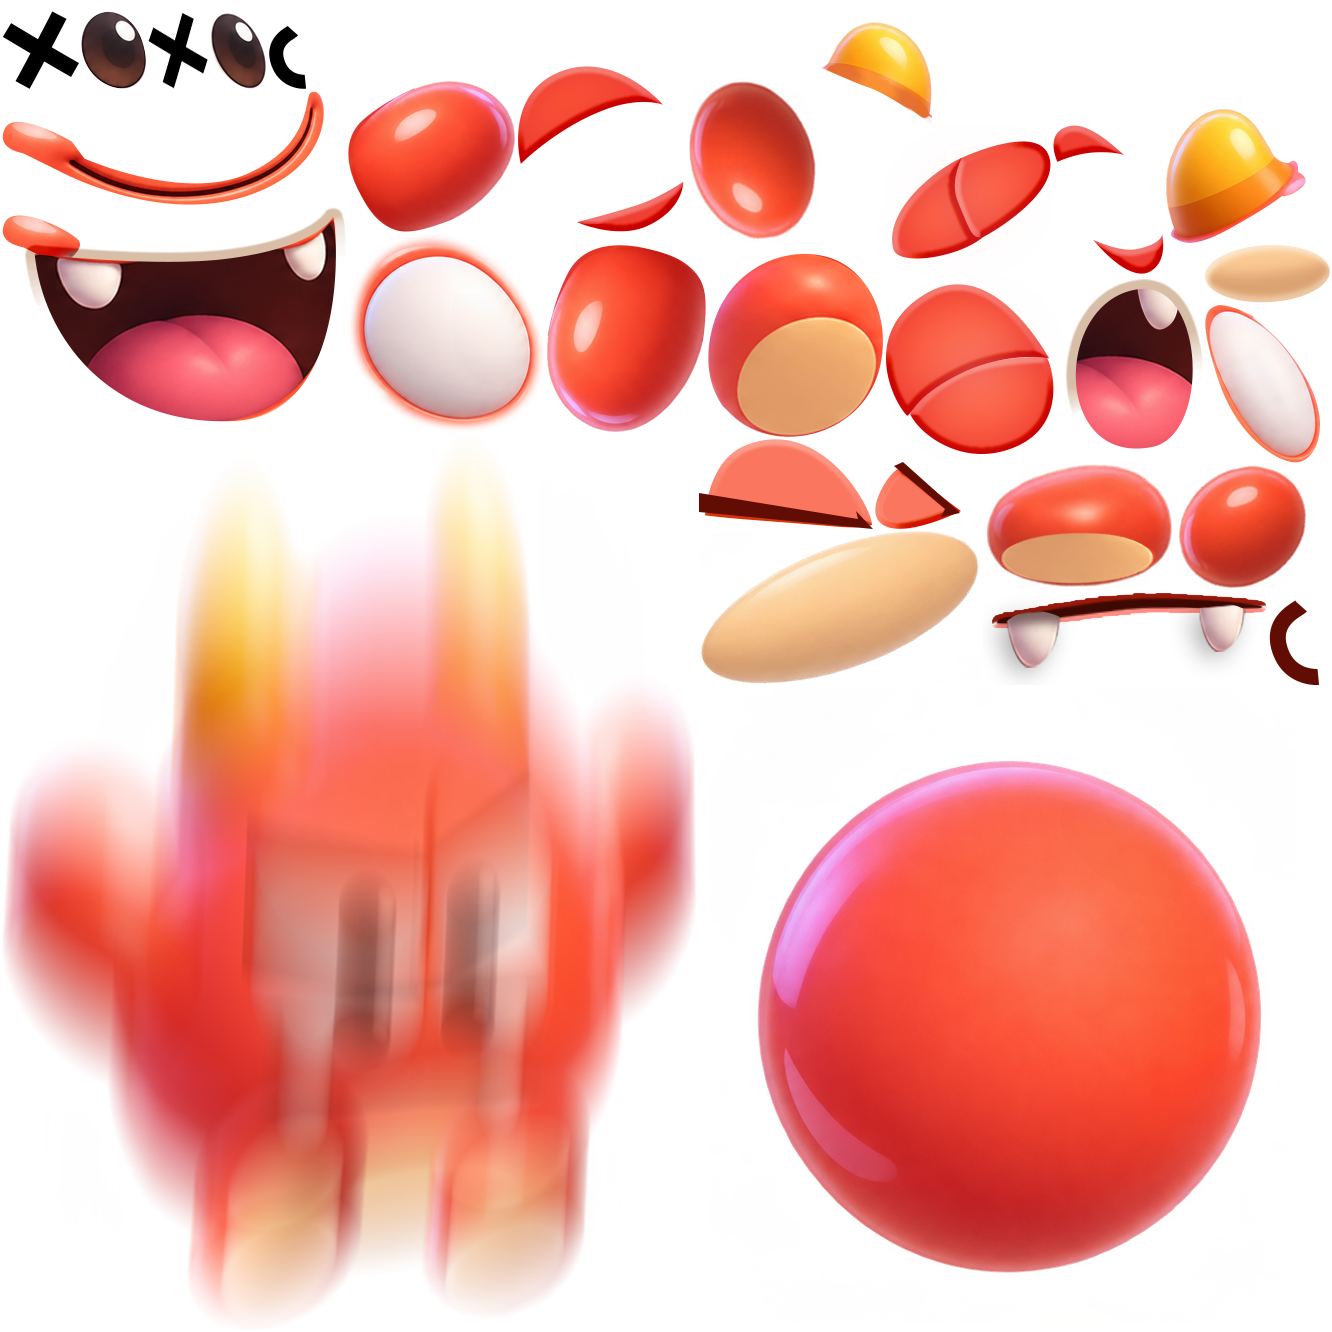
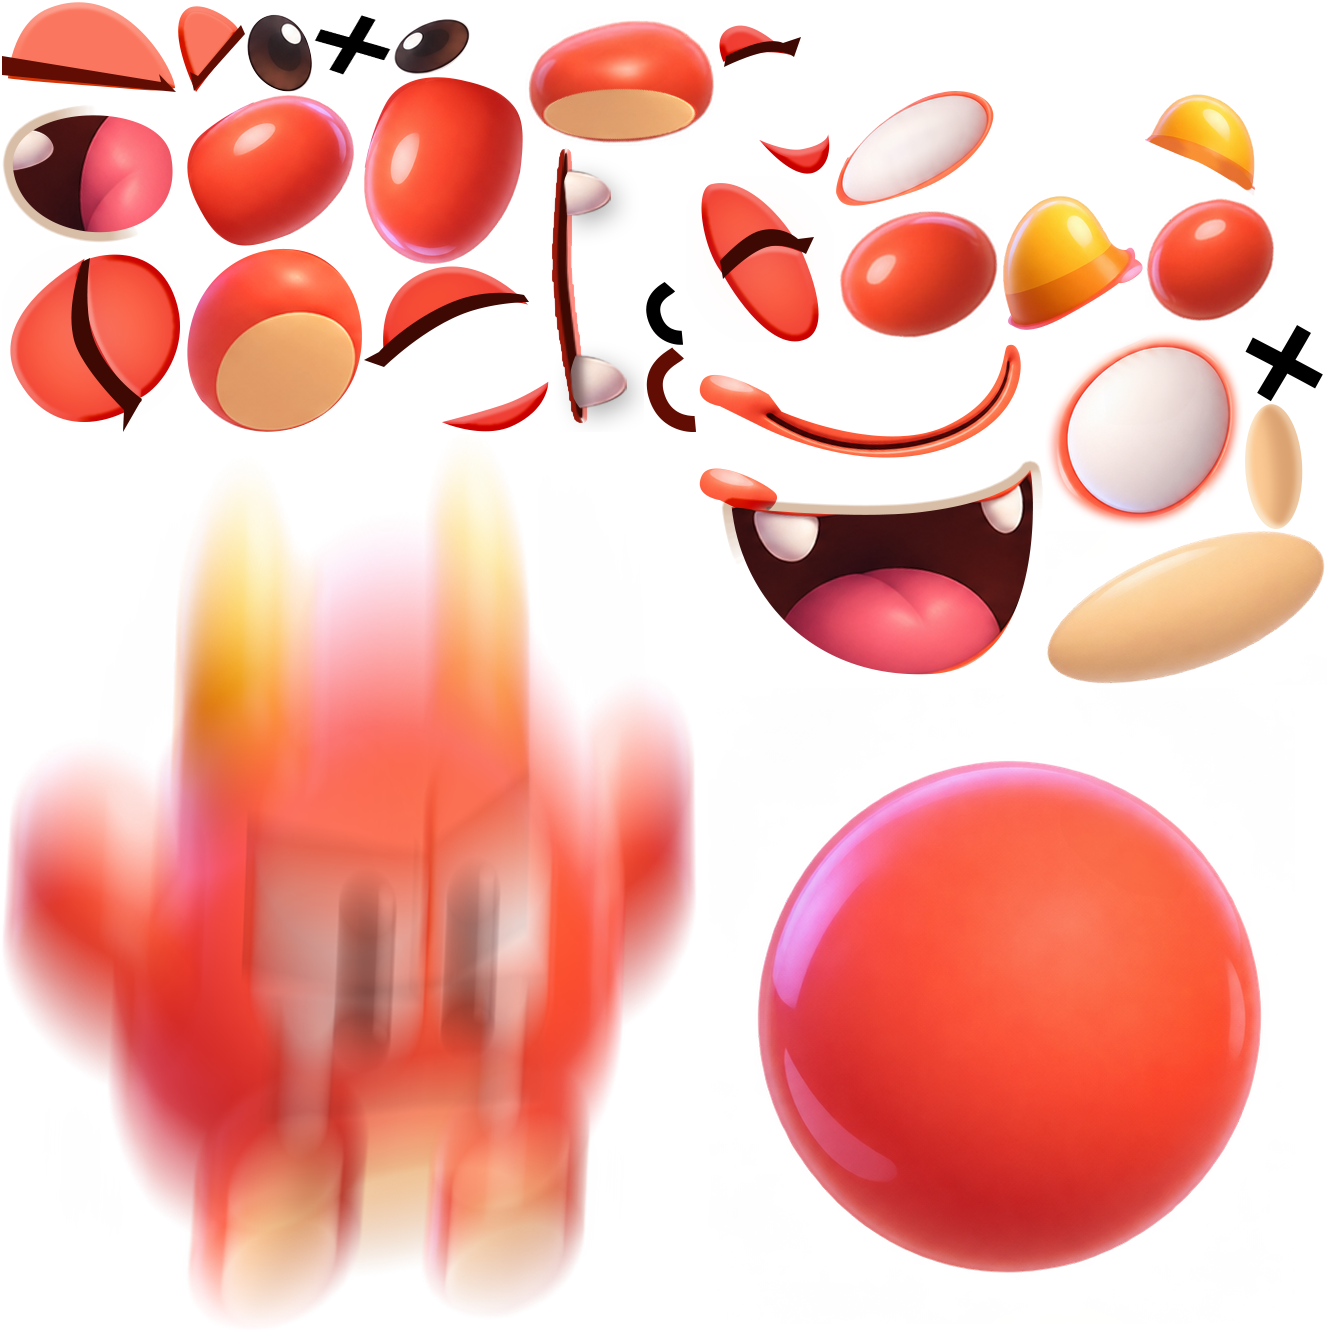
Spinning crown coin, summersault on doubles and springs, star sparkles in the win popup
Claude-Session: https://claude.ai/code/session_01NtdD59FKe2D5p4YXTBGgrJ

Changed region(s): [[0.0, 0.0, 1.0, 0.5233]]

diff --git a/index.html b/index.html
@@ -71,6 +71,9 @@ button.on{background:var(--accent)}
 #win.in .w-stars.lit::before{opacity:1}
 .w-star{position:relative;width:82px;height:auto;opacity:0;transform:scale(.2);filter:drop-shadow(0 4px 0 rgba(91,58,96,.28))}
 .w-star:nth-child(2){width:100px;margin:0 -6px 12px;z-index:1}
+.w-twinkle{position:absolute;z-index:2;height:auto;pointer-events:none;opacity:0;animation:wtw .7s ease-out forwards}
+.w-twinkle.loop{animation:wtw 1.6s ease-in-out infinite}
+@keyframes wtw{0%{opacity:0;transform:scale(.1) rotate(0)}35%{opacity:1;transform:scale(1.15) rotate(45deg)}100%{opacity:0;transform:scale(.3) rotate(90deg)}}
 .w-star.pop{animation:wstar .5s cubic-bezier(.2,1.9,.4,1) forwards}
 @keyframes wstar{0%{opacity:0;transform:scale(.2) rotate(-40deg)}100%{opacity:1;transform:scale(1) rotate(0)}}
 .w-spark{position:absolute;top:22px;width:44px;height:50px;opacity:0;transition:opacity .3s 1.1s}
@@ -351,6 +354,7 @@ let sel=null, snapOn=true;
 let p, rt, ckpt, startY, stats, simT=0, shakeAmt=0, lastLandY=0;
 let parts=[], pops=[], trail=[], springT=new Map();
 let win=null, flash=0, deadT=0, tries=1;
+let springHitT=-1; // simT of Boing's last spring bounce in real play (Spine summersault)
 let SIM=false; // true while the level bot simulates: no sound, buzz or saved times
 const BOT={watch:null,busy:false};
 let INTRO=null; // level-start camera move that shows the flag first (Feel: intro)
@@ -468,7 +472,17 @@ function starsFor(slams,par){return slams<=par?3:slams<=par+starStep(par)?2:1}
 // par is worked out once per level layout and Feel (the bot searches for the fewest slams), then remembered on this device.
 function levelPar(lv){const k='sbl_par_'+botHashKey(lv);let v=store.get(k);if(v==null){try{const r=botRunSync(botSearch(lv,null,15000,60));if(r.ok){v=Math.min(...r.plans.map(pl=>pl.filter(st=>st.k>=0).length));store.set(k,v)}}catch(e){}}return v==null?null:v}
 
-function showBanner(){
+// Allan's sparkle (art/ui/sparkle.png): a burst of twinkles around each star as it pops in the level clear popup
+function starSparkles(star){const box=star.parentNode;if(!box||matchMedia('(prefers-reduced-motion:reduce)').matches)return;
+  const cx=star.offsetLeft+star.offsetWidth/2,cy=star.offsetTop+star.offsetHeight/2,r=star.offsetWidth*0.55;
+  for(let k=0;k<7;k++){const im=document.createElement('img');im.src='art/ui/sparkle.png';im.className='w-twinkle';im.alt='';
+    const a=k/7*Math.PI*2+Math.random()*0.6,d=r*(0.75+Math.random()*0.6),sz=22+Math.random()*30;
+    im.style.cssText=`left:${cx+Math.cos(a)*d-sz/2}px;top:${cy+Math.sin(a)*d-sz/2}px;width:${sz}px;animation-delay:${Math.random()*0.25}s;animation-duration:${0.55+Math.random()*0.4}s`;
+    box.appendChild(im);setTimeout(()=>im.remove(),1400)}
+  // a few slow twinkles that keep going while the popup is up
+  for(let k=0;k<2;k++){const im=document.createElement('img');im.src='art/ui/sparkle.png';im.className='w-twinkle loop';im.alt='';const sz=18+Math.random()*14;
+    im.style.cssText=`left:${star.offsetLeft+Math.random()*star.offsetWidth-sz/2}px;top:${star.offsetTop+Math.random()*star.offsetHeight*0.8-sz/2}px;width:${sz}px;animation-delay:${0.6+Math.random()*1.5}s`;box.appendChild(im)}}
+function showBanner(){document.querySelectorAll('#wStars .w-twinkle').forEach(e=>e.remove());
   $('wTap').textContent=world==='level'?`Tap for level ${(pack.cur+1)%NLEV+1}`:'Tap to go again';
   const el=$('win');el.hidden=false;el.classList.remove('in');void el.offsetWidth;el.classList.add('in');$('wTap').classList.remove('on');
   const b=$('wBest'),inLevel=world==='level';
@@ -483,7 +497,7 @@ function showBanner(){
   const par=inLevel?levelPar(level):null,st=$('wStars'),stars=par==null?0:starsFor(stats.slams,par);
   st.hidden=par==null;
   st.classList.toggle('lit',stars>0);
-  [...st.querySelectorAll('.w-star')].forEach((e,i)=>{e.classList.remove('pop');e.src='art/ui/'+(i<stars?'star':'star-empty')+'.png';setTimeout(()=>{e.classList.add('pop');if(i<stars){tone(988*Math.pow(1.26,i),0,0.12,'square',0.07);tone(1976*Math.pow(1.26,i),0.05,0.18,'triangle',0.05)}},420+i*260)});
+  [...st.querySelectorAll('.w-star')].forEach((e,i)=>{e.classList.remove('pop');e.src='art/ui/'+(i<stars?'star':'star-empty')+'.png';setTimeout(()=>{e.classList.add('pop');if(i<stars){starSparkles(e);tone(988*Math.pow(1.26,i),0,0.12,'square',0.07);tone(1976*Math.pow(1.26,i),0.05,0.18,'triangle',0.05)}},420+i*260)});
   $('wGoal').textContent=par==null?'':stars>=3?`Perfect! ${par===0?'No slams needed':par+' slam'+(par===1?'':'s')+' is the best there is'}`:`3 stars: ${par===0?'no slams':par+' slam'+(par===1?'':'s')+' or fewer'} · 2 stars: ${par+starStep(par)} or fewer`;
   if(inLevel&&!SIM){const k=levelKey()+'_stars',old=store.get(k)||0;if(stars>old)store.set(k,stars)}
   if(win.best||(inLevel&&win.prev==null))setTimeout(()=>{tone(1319,0,0.12,'square',0.07);tone(1760,0.1,0.3,'square',0.07)},650);
@@ -506,7 +520,7 @@ function turnsAt(c){return feel.turn==='every'||(feel.turn==='chain'&&c>=2)||(fe
 function doSlamBounce(o,combo,late){
   p.combo=combo; stats.slams++;
   let v=slamBounceV(combo);
-  if(o.type==='spring'){v*=feel.springMult;springT.set(o.id,simT)}
+  if(o.type==='spring'){v*=feel.springMult;springT.set(o.id,simT);if(!SIM)springHitT=simT}
   if((o.type==='brk'||o.type==='brk2')&&hitBrk(o)&&feel.brkThrough){
     p.combo=combo;p.slam=false;p.wind=0;p.vy=feel.slamSpeed*0.6;p.land=null;p.y=o.y+PH-R+2;
     shakeAmt=Math.max(shakeAmt,12);burst(p.x,o.y+PH,14,C.brkD,380,6);
@@ -542,7 +556,7 @@ function land(o){
   if(p.slam){p.slam=false;doSlamBounce(o,nextCombo(p.combo),false);p.land=null}
   else{
     const prev=p.combo; p.combo=0;
-    let v=feel.bounce; if(o.type==='spring'){v*=feel.springMult;springT.set(o.id,simT)}
+    let v=feel.bounce; if(o.type==='spring'){v*=feel.springMult;springT.set(o.id,simT);if(!SIM)springHitT=simT}
     p.vy=-v; p.squash=0.7; burst(p.x,o.y,4,C.ink3,160,4);
     if(feel.bounceSfx){if(o.type==='spring'){sweep(220,880,0,0.28,'triangle',0.1)}else{const f=330*(o.type==='brk'?0.85:o.type==='brk2'?0.75:1);sweep(f,f*0.62,0,0.09,'sine',0.13);sweep(f*2,f*1.3,0,0.04,'triangle',0.025)}}
     p.land={t:simT,o,prev,used:false};
@@ -726,9 +740,10 @@ async function spineBoot(){
   }catch(e){SP.failed=true}
 }
 function spineAnim(o,dir){if(o.dead){SP.lastDir=dir;return'dead'}if(o.happy){SP.lastDir=dir;return'win'}if(o.slam)return'slam';
-  // turning around (the DOUBLE slam) plays 'summersault' once, then goes back to 'air'
+  // turning around (the DOUBLE slam) or bouncing off a spring plays 'summersault' once, then goes back to 'air'
   const turned=SP.lastDir!=null&&dir!==SP.lastDir;SP.lastDir=dir;
-  if(turned&&SP.has('summersault')){SP.restart=true;SP.lastSq=o.squash||0;return'summersault'}
+  const sprung=springHitT>=0&&springHitT!==SP.seenSpring&&simT-springHitT<0.1;SP.seenSpring=springHitT;
+  if((turned||sprung)&&SP.has('summersault')){SP.restart=true;SP.lastSq=o.squash||0;return'summersault'}
   if(SP.cur==='summersault'){const e=SP.state.getCurrent(0);if(e&&!e.isComplete()){SP.lastSq=o.squash||0;return'summersault'}}
   // a landing (squash jumps up) starts 'land', which plays to its end before going back to 'air'
   const sq=o.squash||0,hit=sq>(SP.lastSq||0)+0.2;SP.lastSq=sq;
@@ -773,7 +788,7 @@ function drawBall(x,y,dir,opts){
 // the walk line is pixel row 8 of every cap picture. Anchored platforms use the stone cap on a layered brick base,
 // floating ones use the plank platform. Falls back to the greybox until the pictures have loaded.
 const ART_K=0.55, ART_DIR='art/world/', ART_WALK=8;
-const WIMG={};for(const n of ['cap-left','cap-mid','cap-right','float-left','float-mid','float-right','base-mid','base-bricks','deco-banner','deco-vine','bg-far','cloud-1','cloud-2','cloud-3','brk-left','brk-mid','brk-right','brk2-left','brk2-mid','brk2-right','brk2-cracked-left','brk2-cracked-mid','brk2-cracked-right','spring','spring-squash','spikes-mid','goal-flag','coin-world','piece-bits']){const i=new Image();i.src=ART_DIR+n+'.png';WIMG[n]=i}
+const WIMG={};for(const n of ['cap-left','cap-mid','cap-right','float-left','float-mid','float-right','base-mid','base-bricks','deco-banner','deco-vine','bg-far','cloud-1','cloud-2','cloud-3','brk-left','brk-mid','brk-right','brk2-left','brk2-mid','brk2-right','brk2-cracked-left','brk2-cracked-mid','brk2-cracked-right','spring','spring-squash','spikes-mid','goal-flag','coin-world','coin-spin','piece-bits']){const i=new Image();i.src=ART_DIR+n+'.png';WIMG[n]=i}
 const wimgOk=n=>{const i=WIMG[n];return i&&i.complete&&i.naturalWidth>0};
 const paintOn=()=>feel.art==='painted'&&wimgOk('cap-mid')&&wimgOk('base-bricks')&&wimgOk('bg-far');
 const LOOKC=new Map();
@@ -794,7 +809,10 @@ function drawPaintedSpikes(o){const im=WIMG['spikes-mid'];if(!paintOn()||!wimgOk
   const h=28,tw0=64*h/48,n=Math.max(1,Math.round(o.w/tw0)),tw=o.w/n;for(let i=0;i<n;i++)ctx.drawImage(im,o.x+i*tw,o.y-10,tw+0.5,h);return true}
 function drawPaintedGoal(o,t){const im=WIMG['goal-flag'];if(!paintOn()||!wimgOk('goal-flag'))return false;
   const k=0.6,w=120*k,h=200*k,sw=1+Math.sin(t*4)*0.03;ctx.save();ctx.translate(o.x,o.y+36);ctx.scale(sw,1);ctx.drawImage(im,-w/2,-h,w,h);ctx.restore();return true}
-function drawPaintedCoin(o,t){const im=WIMG['coin-world'];if(!paintOn()||!wimgOk('coin-world'))return false;
+function drawPaintedCoin(o,t){if(paintOn()&&wimgOk('coin-spin')){ // Allan's spinning coin: 12 frames of 96 px in one strip
+    const im=WIMG['coin-spin'],n=Math.round(im.naturalWidth/im.naturalHeight),fs=im.naturalHeight,f=Math.floor(t*16+o.x*0.05+o.y*0.03)%n,b=Math.sin(t*3+o.x*0.013)*3,d=38;
+    ctx.drawImage(im,((f%n)+n)%n*fs,0,fs,fs,o.x-d/2,o.y+b-d/2,d,d);return true}
+  const im=WIMG['coin-world'];if(!paintOn()||!wimgOk('coin-world'))return false;
   const b=Math.sin(t*3+o.x*0.013)*3,sq=Math.abs(Math.cos(t*2.2+o.x*0.01)),d=34;ctx.save();ctx.translate(o.x,o.y+b);ctx.scale(0.3+0.7*sq,1);ctx.drawImage(im,-d/2,-d/2,d,d);ctx.restore();return true}
 function drawPaintedSlab(o,dmg){if(!paintOn())return false;const kind=dmg&&o.type==='brk2'?'brk2-cracked':o.type;if(!wimgOk(kind+'-mid'))return false;return drawPaintedCap(o,kind)}
 function drawPaintedStructures(objs,c,s){

diff --git a/CLAUDE.md b/CLAUDE.md
@@ -10,7 +10,7 @@
 - `index.html`: the whole game in one file (HTML, CSS and JS, no build step). Open it in a browser to play. Boing's three sprites are embedded as data URIs (`SPRD`). When more poses arrive, move them to files under `art/`.
 - `art/boing/`: the original poses (`boing-fly.png`, `boing-slam.png`, `boing-dizzy.png`) and the character sheet.
 - `art/boing/poses/<pose>.png`: the game's pose pictures (rise, apex, fall, land, slam, dead, win), first made with fal (nano-banana-pro edit + birefnet) and meant for Allan to touch up. `python3 tools/pack_sprites.py --embed` aligns them (equal silhouette area, centred on the body; `land` sits on its feet) into `art/boing/game/` and embeds them in `index.html`.
-- `art/boing/spine/`: Allan's Spine export (`boing.json`, `boing.atlas`, `boing.png`; JSON with packed atlas, facing right, root at the body's bottom). Animations: `air` (scrubbed by vertical speed: frame 0 = launching up, middle = apex, end = falling), `land`, `slam`, `dead`, `win`, and `summersault` (plays once when he turns around on a DOUBLE, instead of `land`). The game loads it with the Spine canvas runtime from jsDelivr (`SPINE_VER` in `index.html` must match his editor version). Character `Boing (Spine)` falls back to the pictures when no export is there. Over `file://` the browser blocks loading it, so test through a local web server or the artifact.
+- `art/boing/spine/`: Allan's Spine export (`boing.json`, `boing.atlas`, `boing.png`; JSON with packed atlas, facing right, root at the body's bottom). Animations: `air` (scrubbed by vertical speed: frame 0 = launching up, middle = apex, end = falling), `land`, `slam`, `dead`, `win`, and `summersault` (plays once, instead of `land`, when he turns around on a DOUBLE or bounces off a spring; Allan's rule 2026-11-14; `springHitT`). The game loads it with the Spine canvas runtime from jsDelivr (`SPINE_VER` in `index.html` must match his editor version). Character `Boing (Spine)` falls back to the pictures when no export is there. Over `file://` the browser blocks loading it, so test through a local web server or the artifact.
 - `docs/design-brief.md`: the design brief written for ChatGPT, which describes the mechanic and pieces in plain language. `docs/images/` holds the mechanic diagram and screenshots.
 - `levels/`: Allan's early levels, as copied level codes.
 
@@ -37,10 +37,10 @@
 ## Code map (in `index.html`)
 - Settings: `FEEL` (slider and toggle definitions; `'seg'` type = button group, with options in `SEGS`) and `DEF`. Settings save under the key `sbl_feel`.
 - Core loop: `tap()`, `step()`, `land()`, `doSlamBounce()`, `hitBrk()`, `nextCombo()`, `turnsAt()`, `die()`, `startPlay()`.
-- Win: `celebrate()`, `winStep()`, `showBanner()`. The popup (`#win .w-panel`, styled after Allan's purple/cream ChatGPT design `art/ui/src/level-clear-concept-2.png` (the older navy one is `level-clear-concept.png`); baked pictures `art/ui/title.png` ("Level clear!"), `crown.png`, shiny `star.png`, `star-empty.png`, `coin.png` redrawn by ChatGPT from that design (2026-11-13), plus `panel.png` (9-slice frame via `border-image`), `stats-bar.png` and `button.png` (stretched). The earlier pieces cut by `python3 tools/cut_ui.py` are kept in `art/ui/src/cut-v1/`; rerunning that script overwrites ChatGPT's pieces; NEW BEST / FIRST CLEAR is plain colourful text, no pill, per Allan) shows Level clear!, 1–3 stars, slams, coins found / total, time. Stars: `levelPar()` = fewest slams the bot finds (computed once per layout + physics Feel at level start, saved as `sbl_par_<hash>`); `starsFor()`: ≤ par = 3, ≤ par + `starStep(par)` (max(2, ½ par)) = 2, else 1. Best stars saved as `sbl_best_<hash>_stars`.
+- Win: `celebrate()`, `winStep()`, `showBanner()`. The popup (`#win .w-panel`, styled after Allan's purple/cream ChatGPT design `art/ui/src/level-clear-concept-2.png` (the older navy one is `level-clear-concept.png`); baked pictures `art/ui/title.png` ("Level clear!"), `crown.png`, shiny `star.png`, `star-empty.png`, `coin.png` redrawn by ChatGPT from that design (2026-11-13), plus `panel.png` (9-slice frame via `border-image`), `stats-bar.png` and `button.png` (stretched). The earlier pieces cut by `python3 tools/cut_ui.py` are kept in `art/ui/src/cut-v1/`; rerunning that script overwrites ChatGPT's pieces; NEW BEST / FIRST CLEAR is plain colourful text, no pill, per Allan; each star that pops in throws Allan's `art/ui/sparkle.png` twinkles via `starSparkles()`) shows Level clear!, 1–3 stars, slams, coins found / total, time. Stars: `levelPar()` = fewest slams the bot finds (computed once per layout + physics Feel at level start, saved as `sbl_par_<hash>`); `starsFor()`: ≤ par = 3, ≤ par + `starStep(par)` (max(2, ½ par)) = 2, else 1. Best stars saved as `sbl_best_<hash>_stars`.
 - Level start: `introStart()`/`introTick()` (Feel `intro`: `fly` = camera starts on the flag and glides to Boing, `zoom` = whole level shown then zooms in, `off`). Runs only on a level's first try, not after deaths or for the bot; a tap skips it. `drawGoalArrow()` pins a flag badge to the screen edge pointing at an off-screen flag (Feel `goalArrow`).
 - Drawing: `render()`, `drawObj()`, `drawBall()`, `drawBoing()`. Boing is drawn with his body's bottom on the hitbox's bottom, scaled by `boingSize` (default 1.5×; visual only, the hitbox never changes). He flips with direction. `pickPose()` chooses rise/apex/fall/land/slam/dead/win from his motion, and `drawBoing()` fades into the new pose over `poseBlend` s, with `tilt` and `squashAmt` (Feel sliders) on top.
-- World art (painted, `// ---------- world art (painted) ----------`): Feel `art` default `painted`. Pieces cut from Allan's ChatGPT concept (`art/world/src/concept-1.png`) by `python3 tools/cut_world.py` into `art/world/*.png` (needs opencv-python-headless): 3-slice caps `cap-*` (anchored) and `float-*` (plank platform), brick tile `base-bricks` (drawn crisp by `python3 tools/make_bricks.py`, running bond, 4 px per unit; `base-mid` is the old blurry cut, unused), decorations `deco-banner`/`deco-vine`, `bg-far` (mirrored so it loops), `cloud-1..3`. On 2026-11-13 ChatGPT repainted all of these at the same sizes (the first cuts are kept in `art/world/src/cut-v1/`; rerunning `cut_world.py`/`make_bricks.py` would overwrite ChatGPT's pieces) and added gameplay pieces: `brk-*`, `brk2-*`, `brk2-cracked-*` (3-slice like the caps), `spring`/`spring-squash`, `spikes-mid` (tiles), `goal-flag`, `coin-world` (temporary; Allan plans a spinning coin with no balloon), `piece-bits` (rubble, chunk boxes in `BITS`). Drawn by `drawPaintedSlab/Spring/Spikes/Goal/Coin()`; the code drawing is the fallback. Bricks pattern scale 0.7. Allan tabled replacing the hot-air balloons with airships. Drawn at `ART_K` 0.55 units per pixel; walk line = pixel row 8 of each cap. Bases layer like the greybox. Pictures load from `art/world/`, so the artifact publish must include them via `files`.
+- World art (painted, `// ---------- world art (painted) ----------`): Feel `art` default `painted`. Pieces cut from Allan's ChatGPT concept (`art/world/src/concept-1.png`) by `python3 tools/cut_world.py` into `art/world/*.png` (needs opencv-python-headless): 3-slice caps `cap-*` (anchored) and `float-*` (plank platform), brick tile `base-bricks` (drawn crisp by `python3 tools/make_bricks.py`, running bond, 4 px per unit; `base-mid` is the old blurry cut, unused), decorations `deco-banner`/`deco-vine`, `bg-far` (mirrored so it loops), `cloud-1..3`. On 2026-11-13 ChatGPT repainted all of these at the same sizes (the first cuts are kept in `art/world/src/cut-v1/`; rerunning `cut_world.py`/`make_bricks.py` would overwrite ChatGPT's pieces) and added gameplay pieces: `brk-*`, `brk2-*`, `brk2-cracked-*` (3-slice like the caps), `spring`/`spring-squash`, `spikes-mid` (tiles), `goal-flag`, `coin-spin` (Allan's 12-frame spinning crown coin, 96 px frames in one strip; his source frames are in `art/world/src/coin-frames/`; frame 0 is also the popup's `art/ui/coin.png`; `coin-world` is ChatGPT's old placeholder, now only a fallback), `piece-bits` (rubble, chunk boxes in `BITS`). Drawn by `drawPaintedSlab/Spring/Spikes/Goal/Coin()`; the code drawing is the fallback. Bricks pattern scale 0.7. Allan tabled replacing the hot-air balloons with airships. Drawn at `ART_K` 0.55 units per pixel; walk line = pixel row 8 of each cap. Bases layer like the greybox. Pictures load from `art/world/`, so the artifact publish must include them via `files`.
 - World art (greybox, `// ---------- world art (greybox) ----------`): Feel `art` (`greybox` = world art, `plain` = old flat look), `anchor` (which platforms get a base on Auto: `wide` = 300+ units, `all`, `none`) and `bgDepth` (parallax). `drawWorldBg()` draws sky, clouds, far hills and mid towers at slower scroll speeds. `drawStructures()` draws what's under each bar piece, behind everything: `lookOf()` returns `base` (stone column going down and fading), `float` (small underside) or `none` (spring or spike sitting on a platform). Bases are layered Mario-style: lower platforms' bases in front, higher ones behind and hazier. Breakables always float. Allan dropped hanging chains (2026-11-13). Per-piece override: the editor's **Look** button (Auto / Ground / Floating), saved as `look` in the level code. `drawCap()` is the one cream cap style on every landable top. The art brief for the real art is the Claude Doc "Boing world art brief" (https://claude.ai/artifact/UvbRCNtPxKCcputYxKsy7j).
 - Levels: the 20-level campaign is `CAMPAIGN` (each level has a `teach` list). `pack` holds 20 slots (saved under `sbl_pack`, tagged `camp:CAMP_VER`); `starter(i)` returns a fresh copy of `CAMPAIGN[i]`. A pack from before the campaign is backed up to `sbl_pack_old`. Bump `CAMP_VER` to push a new campaign over saved packs. Endless random world in `cell()`. Best times are saved under `sbl_best_<hash>`.
 - Level bot (`// ---------- level bot ----------`): `botSearch()` runs the real `step()` with `SIM=true` (no sound, buzz or saved times) and searches tap timings landing by landing. `botCheck()` solves a level, measures each tap's timing window (`botTolerance()`), and searches again with each `teach` move banned to find shortcuts. The **Bot** button opens the sheet with **Watch this level** (plays the bot's taps through `BOT.watch` in the real loop) and **Check all levels**. Headless: `node tools/check.mjs [levels.json]` prints the same table for the campaign or a file of levels.
